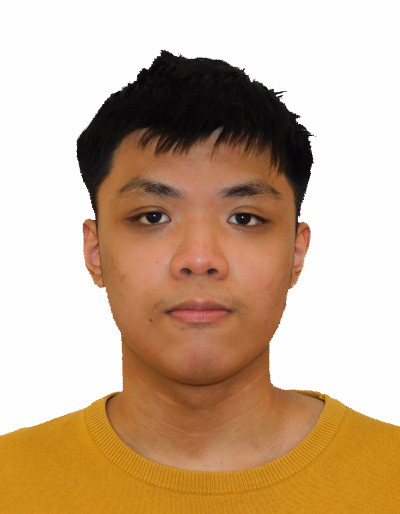
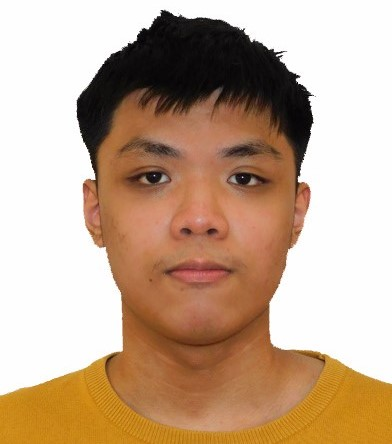
Filling in content-About Page

diff --git a/html/style.css b/html/style.css
@@ -113,6 +113,7 @@ nav{
     min-height: 8vh;
     background-color: rgb(209, 87, 87);
     font-family:var(--ff--primary);
+    max-width: 100%;
 }
 
 .logo{
@@ -120,6 +121,7 @@ nav{
     text-transform: uppercase;
     letter-spacing: 5px;
     font-size: 20px;
+    border-radius: 50px;
 }
 
 .nav-links{
@@ -137,14 +139,26 @@ nav{
     text-decoration: none;
     letter-spacing: 3px;
     font-weight: bold;
-    font-size: 14px;
+    font-size: 17px;
+    
 }
+
+.nav-links a:hover,
+.nav-links a:focus{
+    background-color:rgb(212, 49, 49);
+    border-radius:100px;
+}
+
+.nav-links a:active{
+    color:rgb(243, 155, 155);
+}
+
 
 .burger{
     display:none;
     cursor: pointer;
-
 }
+
 .burger div{
     width: 25px;
     height: 3px;
@@ -170,10 +184,11 @@ nav{
         height: 92vh;
         top: 8vh;
         background-color: rgb(209, 87, 87);
+        opacity:0.8;
         display: flex;
         flex-direction: column;
         align-items: center;
-        width: 50%;
+        width: 20%;
         transform: translateX(100%);
         transition: transform 0.5s ease-in;
     }
@@ -221,7 +236,7 @@ nav{
 }
 /*End of Navigation*/
 
-/*HEROO*/
+/*Home Page*/
 .container {
     min-height: 100vh;
     width: 100%;
@@ -235,7 +250,7 @@ nav{
     background-size: cover;
     background-position: top center;
     position: relative;
-    z-index: 1;
+    z-index: -1;
 }
 
 .hero::after{
@@ -250,11 +265,18 @@ nav{
     opacity: 0.7;
 }
 
+#hero .hero{
+    max-width: 1500px;
+    margin: 0 auto;
+    padding: 0 50px;
+    justify-content:center;
+}
+
 .hero h1{
     display: block;
     width: fit-content;
     font-family: var(--ff--primary);
-    font-size: 4rem;
+    font-size: 3rem;
     position: relative;
     color: transparent;
     animation: text_reveal 0.5s ease forwards;
@@ -262,11 +284,11 @@ nav{
 }
 
 .chinese-name h1{
-
-    left:30px;
+    left:35px;
+    animation-delay:1.7s;
 }
 
-.hero h1 span{
+.hero .chinese-name span{
     position: absolute;
     top: 0;
     left: 0;
@@ -293,15 +315,65 @@ nav{
     }
 }
 
-/*My toy2: Card*/
+/*About*/
+/*About me section and About Website*/
+
+.AboutWebsite,
+.AboutMe{
+    background:pink;
+    position:relative;
+    margin: 0 auto;
+    padding: 0 3rem;
+    margin-top: 2rem;
+    text-align: center;
+    border-radius: 50px;
+    z-index:-1;
+}
+
+.AboutWebsite h1,
+.AboutMe h1{
+    color:crimson;
+    font-size: 2.5rem;
+    font-weight: 700;
+    letter-spacing: 8px;
+    margin-bottom: 0.5rem;
+    margin-top:1rem;
+}
+.AboutMe h2{
+    color:grey;
+    font-size:1.5rem;
+    font-weight:600;
+    letter-spacing: 8px;
+    margin-bottom: 1rem;
+}
+
+.AboutMe .image img{
+    border-radius:50px;
+    width:200px;
+    height:200px;
+    margin-bottom:1rem;
+}
+
+.AboutWebsite p,
+.AboutMe p{
+    color:black;
+    font-size:2rem;
+    font-weight:500;
+    letter-spacing: 0.02rem;
+    margin-bottom: 10rem;
+}
+
+
+/*My toy2: Card
 .section-class{
     display:flex;
     display: grid;
     min-height: 100vh;
-    /*卡牌位置*/
+    /*卡牌位置
     line-height: 1.2;
     font-family: sans-serif;   
 }
+*/
 
 .card{
     color: var(--clr-neutral-100);

diff --git a/html/Main.html b/html/Main.html
@@ -15,7 +15,7 @@
         <!--Navigation Bar-->
         <nav>
             <div class="logo">
-                <h4>Jiun Hong</h4>
+                <h4>Home Page</h4>
             </div>
             <ul class="nav-links">
                 <li>
@@ -38,21 +38,23 @@
                 <div class= "line3"></div>
             </div>
         </nav>
-
+    
         <section id="hero">
             <div class="hero container">              
                 <div>
-                    <h1>Hello, <span></span></h1>
-                    <h1>My Name is <span></span></h1>
-                    <h1>Jiun Hong <span></span></h1>
+                    <h1>Hello,</h1>
+                    <h1>My Name is </h1>
+                    <h1>Jiun Hong</h1>
+                    <h1>____________</h1>
                 </div>
                 <div class='chinese-name'>
-                    <h1>谢</h1>
-                    <h1>俊</h1>
-                    <h1>丰</h1>
+                    <h1>谢<span></span></h1>
+                    <h1>俊<span></span></h1>
+                    <h1>丰<span></span></h1>
                 </div>
             </div>
         </section>
+        
         <!--Animated Background
         <div class="animation-area">
             <ul class="box-area">
@@ -65,8 +67,6 @@
             </ul>
         </div>
     -->
-        <main>
-
             <!--Card 1
             <section class="section-class">    
                 <div class = "split">
@@ -81,8 +81,6 @@
                 </div>
             </section> 
         -->
-
-        </main>
         <script src="Disaster.js"></script>
     </body>
 </html>

diff --git a/html/About.html b/html/About.html
@@ -15,7 +15,7 @@
         <!--Navigation Bar-->
         <nav>
             <div class="logo">
-                <h4>Jiun Hong</h4>
+                <h4>About</h4>
             </div>
             <ul class="nav-links">
                 <li>
@@ -38,6 +38,26 @@
                 <div class= "line3"></div>
             </div>
         </nav>
+
+        <section class="About">
+            <div class="AboutMe">
+                <h1>Chia Jiun Hong</h1>
+                <h2>Diploma in Information Technology</h2>
+                <div class="image">
+                    <img src="/png/Selfie.jpg" alt="Photograph of me">
+                </div>
+                <p>
+                I'm currently stuying in Ngee Polytechnic as a student of Information Technology</p>
+                </p>
+            </div>
+            <div class="AboutWebsite">
+                <h1>About this website</h1>
+                <p>This site was planned and submitted to the school as the assignment of the interactive development module in the second semester of year 1.</p>
+            </div>
+        </section>
+        <Section class="About website">
+
+        </Section>
         <script src="Disaster.js"></script>
     </body>
 </html>
